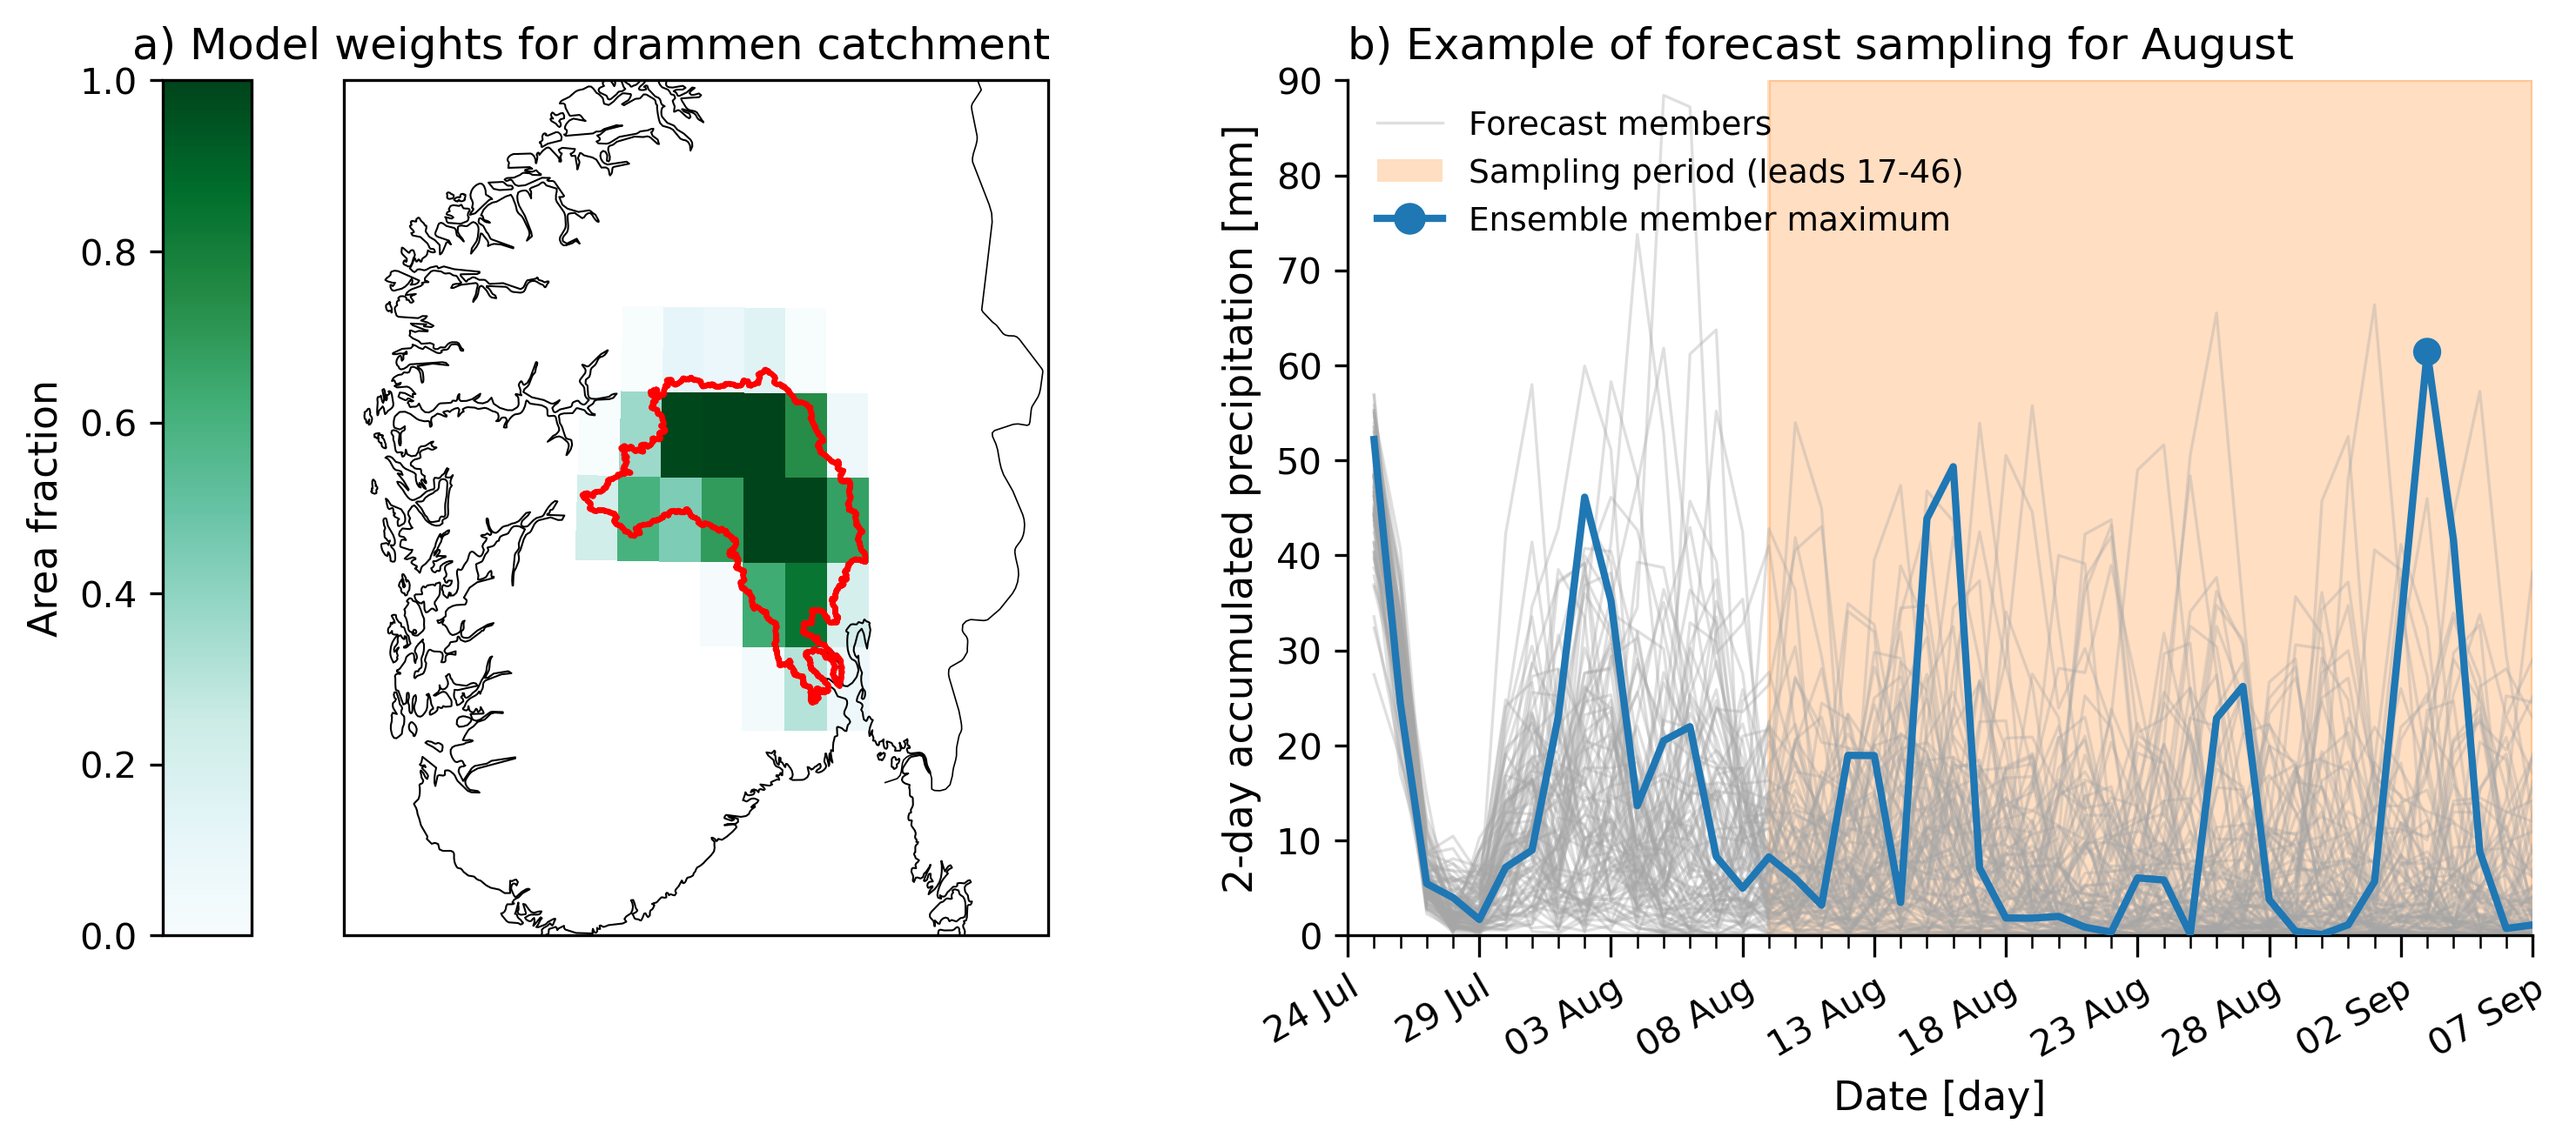
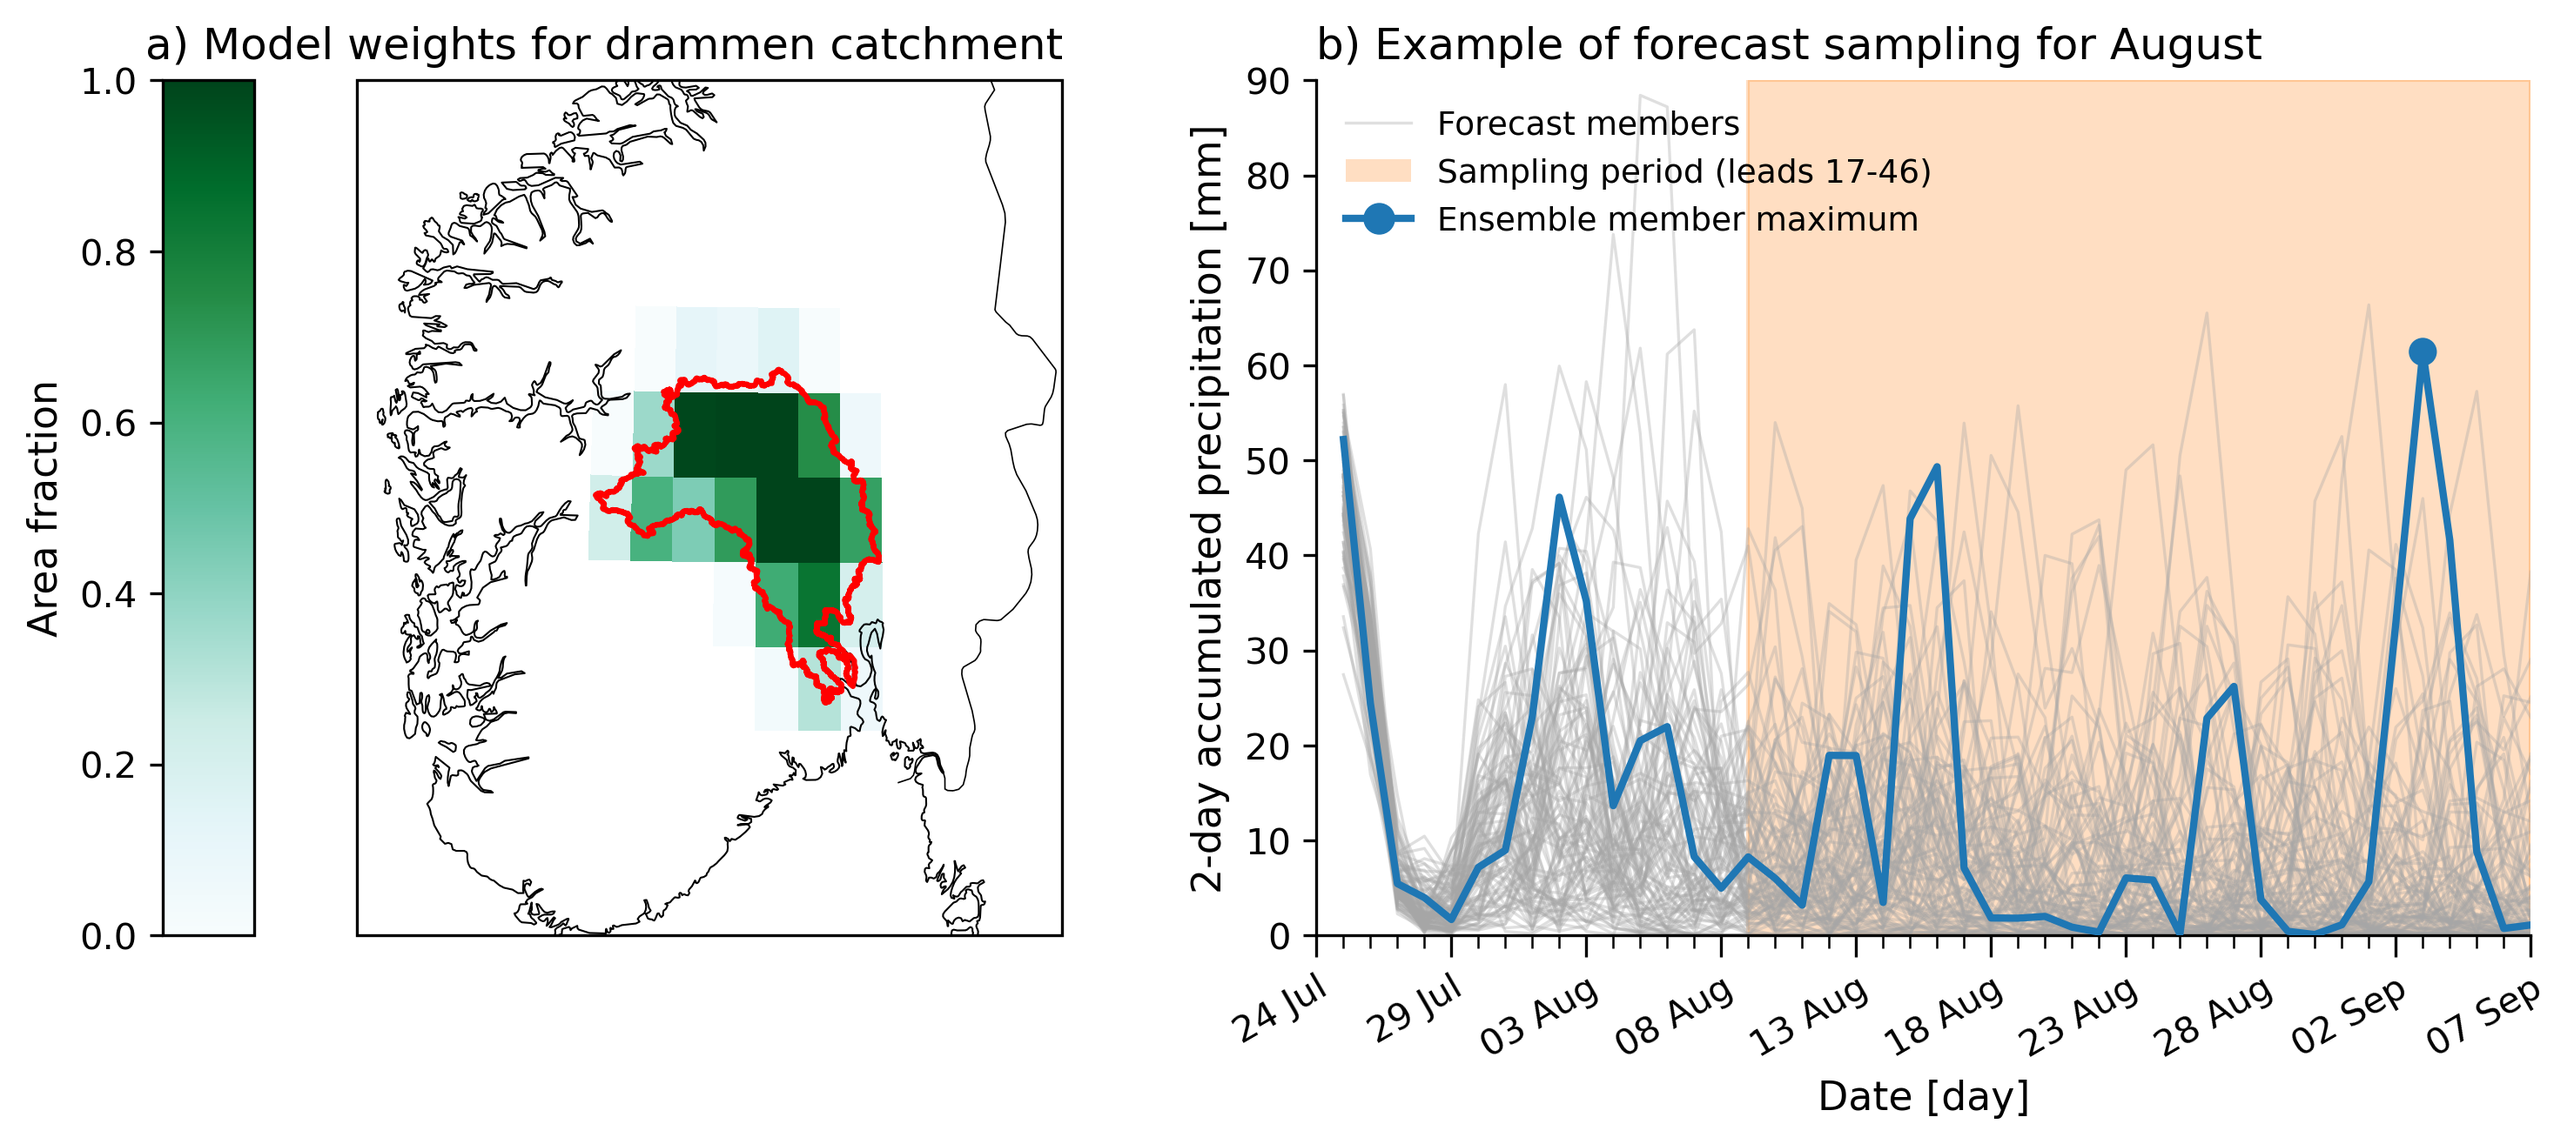
update

diff --git a/code/plot/poster_figs/temp.py b/code/plot/poster_figs/temp.py
@@ -97,7 +97,7 @@ original_figure_height = 10
 original_figure_hspace = 0.35
 figure_height = original_figure_height / (2 + original_figure_hspace)
 figure_dpi = 300
-figure_wspace = 0.05
+figure_wspace = 0.0
 
 title_fontsize = 12
 axis_label_fontsize = 11
